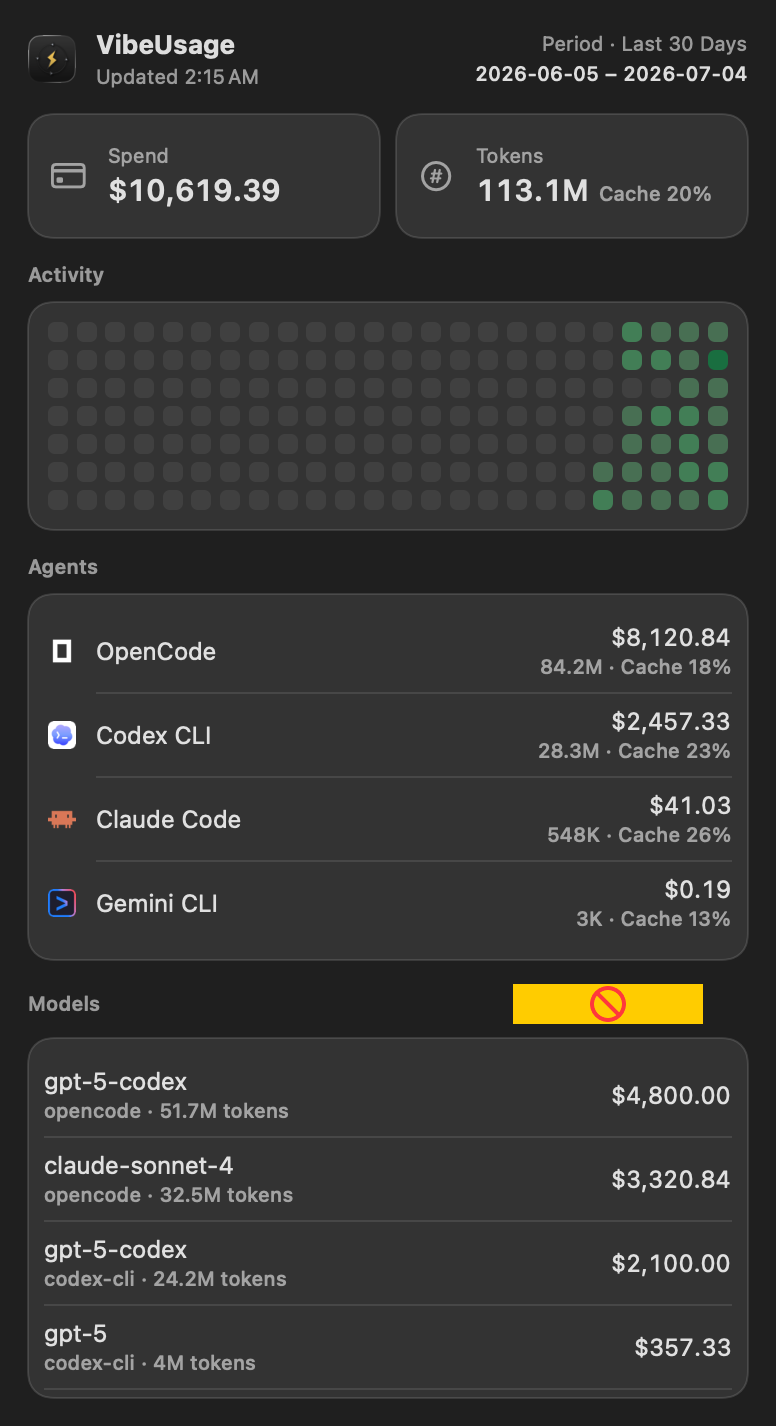
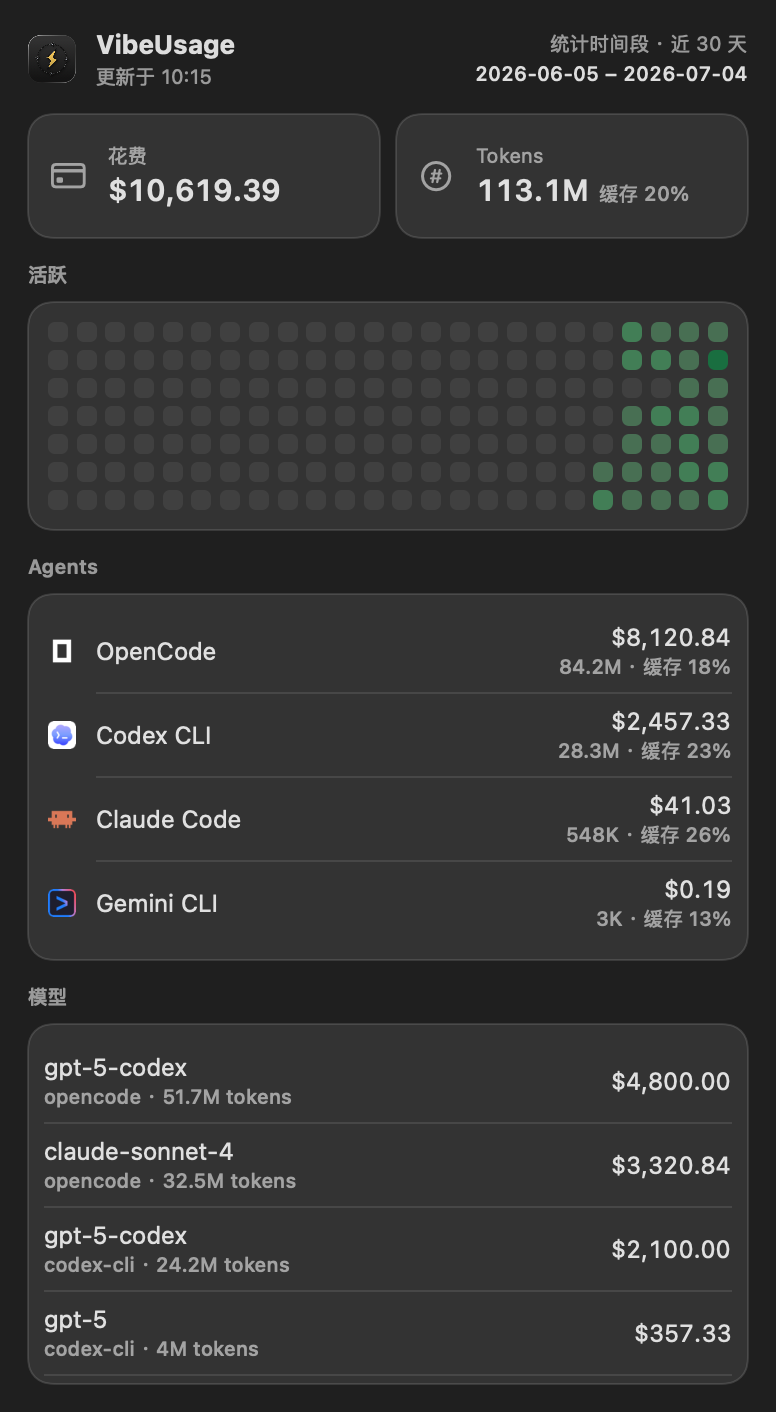
Hide model filter from share images

diff --git a/Tests/VibeUsageUITests/MenuBarImageExporterTests.swift b/Tests/VibeUsageUITests/MenuBarImageExporterTests.swift
@@ -1,6 +1,8 @@
 import AppKit
 import SwiftUI
 import Testing
+import VibeUsageAggregation
+import VibeUsageCore
 @testable import VibeUsageUI
 import VibeUsageQuota
 
@@ -120,6 +122,21 @@ import VibeUsageQuota
         #expect(center.redComponent < 0.3)
     }
 
+    @MainActor
+    @Test func exportModeOmitsTheModelFilterControl() throws {
+        let model = ModelUsageSummary(
+            modelFamily: "gpt-5.6-sol",
+            sourceID: .codexCLI,
+            tokens: TokenCounts(input: 100, output: 20),
+            costUSD: 1,
+            eventCount: 1
+        )
+        let exportWithFilterOptions = renderMenuBar(availableModels: [model], displayedModel: model)
+        let exportWithoutFilterOptions = renderMenuBar(availableModels: [], displayedModel: model)
+
+        #expect(exportWithFilterOptions == exportWithoutFilterOptions)
+    }
+
     private func containsPlaceholderColor(in bitmap: NSBitmapImageRep) -> Bool {
         for y in 0..<bitmap.pixelsHigh {
             for x in 0..<bitmap.pixelsWide {
@@ -138,6 +155,50 @@ import VibeUsageQuota
             }
         }
         return false
+    }
+
+    @MainActor
+    private func renderMenuBar(
+        availableModels: [ModelUsageSummary],
+        displayedModel: ModelUsageSummary
+    ) -> Data? {
+        let snapshot = UsageDashboardSnapshot(
+            generatedAt: Date(timeIntervalSince1970: 0),
+            rangeStartDay: "2026-07-14",
+            rangeEndDay: "2026-07-14",
+            totals: UsageTotals(
+                tokens: displayedModel.tokens,
+                costUSD: displayedModel.costUSD,
+                eventCount: 1
+            ),
+            sources: [],
+            daily: [],
+            activity: [],
+            models: [displayedModel],
+            availableModels: availableModels,
+            discoveredSources: []
+        )
+        let view = MenuBarUsageView(
+            snapshot: snapshot,
+            isRefreshing: false,
+            lastError: nil,
+            quota: .empty,
+            selectedDateRange: .constant(.today),
+            selectedModelFilter: .constant([]),
+            hiddenQuotaSourceIDs: [],
+            onRefresh: {},
+            onFilterChange: {},
+            onOpenSettings: {},
+            onQuit: {}
+        )
+        .fixedSize(horizontal: false, vertical: true)
+
+        return MenuBarImageExporter.renderPNGData(
+            colorScheme: .light,
+            scale: 1
+        ) {
+            view
+        }
     }
 }
 

diff --git a/Sources/VibeUsageUI/MenuBar/MenuBarUsageView.swift b/Sources/VibeUsageUI/MenuBar/MenuBarUsageView.swift
@@ -374,7 +374,7 @@ public struct MenuBarUsageView: View {
         HStack(alignment: .center, spacing: 8) {
             MenuSectionTitle(UIStrings.models)
             Spacer()
-            if !snapshot.availableModels.isEmpty {
+            if !isExporting, !snapshot.availableModels.isEmpty {
                 modelFilterMenu
             }
         }